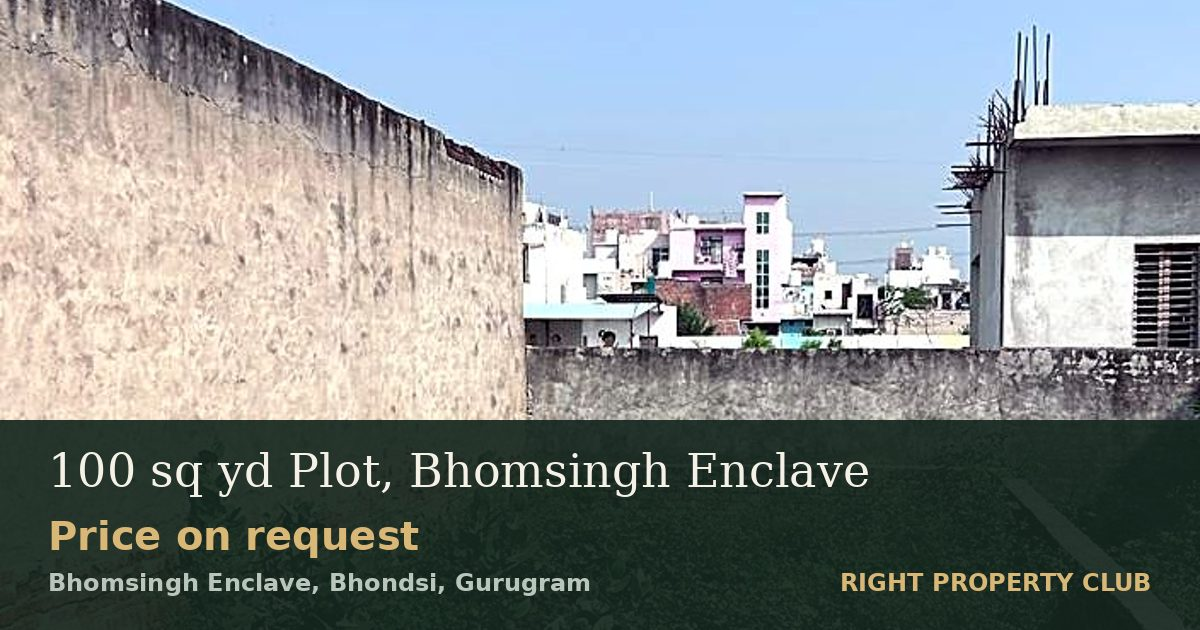
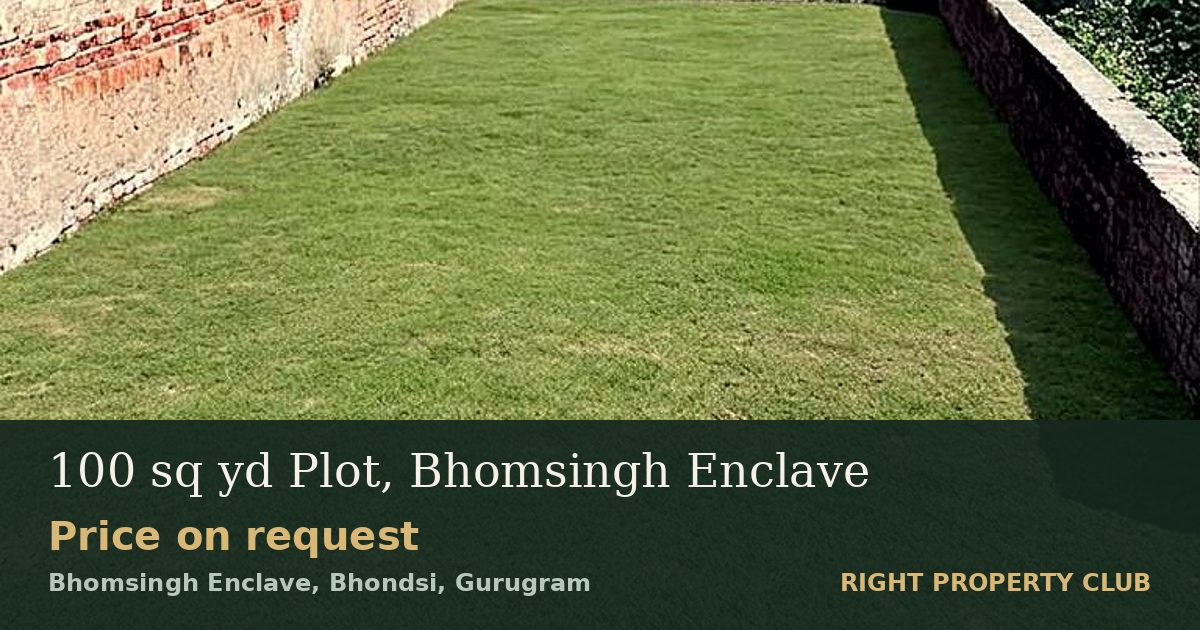
Add files via upload

diff --git a/p/100-sq-yd-plot-bhomsingh-enclave-bhondsi/index.html b/p/100-sq-yd-plot-bhomsingh-enclave-bhondsi/index.html
@@ -1,6 +1,6 @@
 <!doctype html><html lang="en-IN"><head><meta charset="utf-8"><meta name="viewport" content="width=device-width,initial-scale=1,viewport-fit=cover">
 <title>100 sq yd Plot for Sale in Bhomsingh Enclave, Bhondsi | Price on request | Right Property Club</title>
-<meta name="description" content="Price on request · Bhomsingh Enclave, Bhondsi, Gurugram. A compact 50 × 18 ft plot in a settled residential pocket of Bhondsi, Gurugram, with registry available.">
+<meta name="description" content="Price on request · Bhomsingh Enclave, Bhondsi, Gurugram. ">
 <meta property="og:type" content="website"><meta property="og:site_name" content="Right Property Club">
 <meta property="og:title" content="100 sq yd Plot, Bhomsingh Enclave – Price on request"><meta property="og:description" content="Bhomsingh Enclave, Bhondsi, Gurugram. View all photos and details.">
 <meta property="og:url" content="https://rightpropertyclub.com/p/100-sq-yd-plot-bhomsingh-enclave-bhondsi/"><meta property="og:image" content="https://rightpropertyclub.com/p/100-sq-yd-plot-bhomsingh-enclave-bhondsi/og.jpg"><meta property="og:image:width" content="1200"><meta property="og:image:height" content="630">
@@ -23,7 +23,7 @@ main{max-width:760px;margin:0 auto;padding:0 max(16px,env(safe-area-inset-right)
 .track{display:flex;overflow-x:auto;scroll-snap-type:x mandatory;scrollbar-width:none}
 .track::-webkit-scrollbar{display:none}
 .track img{flex:0 0 100%;width:100%;height:auto;aspect-ratio:4/3;object-fit:cover;scroll-snap-align:center;background:var(--gold-soft)}
-.gal.portrait .track img{aspect-ratio:4/5;max-height:72vh;object-fit:cover}
+.gal.portrait .track img{aspect-ratio:4/5;object-fit:cover}
 .gal.portrait + .head{margin-top:12px}.gal.portrait .count{left:auto;right:14px;bottom:14px}
 .count{position:absolute;left:14px;bottom:30px;background:rgba(0,0,0,.55);color:#fff;font-size:12px;padding:3px 9px;border-radius:999px}
 @media (min-width:760px){.gal{margin:16px 0 0}.track{border-radius:12px}}
@@ -59,6 +59,9 @@ h2{font-size:12px;letter-spacing:.09em;text-transform:uppercase;color:var(--mute
 .card .b{padding:14px;display:grid;gap:6px}
 .card h3{font-family:var(--f-display);font-weight:400;font-size:21px;margin:0}
 .hero{padding:26px 0 6px;display:grid;gap:8px}.hero p{color:var(--muted);max-width:60ch;margin:0}
+.checked{display:inline-flex;align-items:center;gap:8px;margin-top:14px;background:#1E3A2E;color:#F5F1E7;border:1px solid #D8B777;border-radius:999px;padding:7px 14px;font-weight:600;font-size:14px}.checked span{color:#D8B777}
+.concept{margin:12px 0 0;background:var(--surface);border:1px solid var(--line);border-radius:10px;overflow:hidden}.concept img{width:100%;height:auto;max-height:80vh;object-fit:cover}.concept figcaption{padding:10px 12px;font-size:13px;color:var(--muted)}.concept b{display:block;color:var(--ink);font-size:15px;margin-bottom:2px}
+@media (min-width:760px){.gal.portrait{max-width:520px;margin-left:auto;margin-right:auto}.concept{max-width:520px}}
 .plotfig{margin:0;background:var(--surface);border:1px solid var(--line);border-radius:10px;padding:10px}.plotfig svg{width:100%;height:auto;display:block}.plotfig figcaption{font-size:12px;color:var(--muted);padding:4px 6px 0}
 .vid{width:100%;max-height:70vh;border-radius:10px;background:#000}
 .why{margin-top:8px}.why h3{font-size:16px;margin:18px 0 8px}
@@ -70,32 +73,33 @@ h2{font-size:12px;letter-spacing:.09em;text-transform:uppercase;color:var(--mute
 </style></head><body>
 <header class="top"><div class="in"><a class="logo" href="/">RIGHT PROPERTY <span>CLUB</span></a><small>Find the Right Property. The Right Way.</small></div></header>
 <main>
-<div class="gal portrait"><div class="track"><img src="1.jpg" alt="100 sq yd Plot, Bhomsingh Enclave photo 1"  width="1600" height="1200"><img src="2.jpg" alt="100 sq yd Plot, Bhomsingh Enclave photo 2" loading=lazy width="1600" height="1200"><img src="3.jpg" alt="100 sq yd Plot, Bhomsingh Enclave photo 3" loading=lazy width="1600" height="1200"><img src="4.jpg" alt="100 sq yd Plot, Bhomsingh Enclave photo 4" loading=lazy width="1600" height="1200"></div><span class="count">4 photos</span></div>
+<div class="checked"><span>✓</span> Checked by Right Property Club</div>
+<div class="gal portrait"><div class="track"><img src="1.jpg?v=4e5d3ad8" alt="100 sq yd Plot, Bhomsingh Enclave photo 1"  width="1600" height="1200"><img src="2.jpg?v=60617b70" alt="100 sq yd Plot, Bhomsingh Enclave photo 2" loading=lazy width="1600" height="1200"></div><span class="count">2 photos · swipe</span></div>
+<p class="fine" style="text-align:center">Cover and home design are representative images. The plot photo has been digitally tidied for presentation.</p>
 <section class="head"><div class="eyebrow">📍 Near Sohna toll · Bhomsingh Enclave, Bhondsi, Gurugram</div>
 <h1>100 sq yd Plot for Sale in Bhomsingh Enclave, Bhondsi</h1>
-<div class="chips"><span class="chip">For Sale</span><span class="chip">Residential plot</span><span class="chip ok">Verified 9 Nov 2026</span><span class="chip">RPC-PL-001</span></div>
+<div class="chips"><span class="chip">For Sale</span><span class="chip">Residential plot</span><span class="chip ok">✓ Verified</span><span class="chip">RPC-PL-001</span></div>
 <div class="price">Price on request</div>
 
 <div class="links" style="margin-top:4px"><a class="btn gold" href="https://wa.me/919310884844?text=Hi%20Right%20Property%20Club%2C%20I%20am%20interested%20in%20100%20sq%20yd%20Plot%2C%20Bhomsingh%20Enclave%2C%20Bhomsingh%20Enclave%2C%20Bhondsi%2C%20Gurugram%20%28RPC-PL-001%29.%20Please%20share%20the%20price%20and%20details.%20https%3A//rightpropertyclub.com/p/100-sq-yd-plot-bhomsingh-enclave-bhondsi/" target="_blank" rel="noopener"><svg width="18" height="18" viewBox="0 0 24 24" aria-hidden="true" fill="currentColor"><path d="M12 2a10 10 0 0 0-8.6 15.1L2 22l5-1.3A10 10 0 1 0 12 2Zm0 18.2c-1.5 0-3-.4-4.3-1.2l-.3-.2-3 .8.8-2.9-.2-.3A8.2 8.2 0 1 1 12 20.2Zm4.5-6.1c-.2-.1-1.5-.7-1.7-.8-.2-.1-.4-.1-.6.1l-.8 1c-.1.2-.3.2-.5.1a6.7 6.7 0 0 1-3.3-2.9c-.3-.4.2-.4.7-1.4.1-.2 0-.3 0-.4l-.8-1.8c-.2-.5-.4-.4-.6-.4h-.5c-.2 0-.4.1-.7.3-.2.3-.9.9-.9 2.2s.9 2.5 1 2.7c.1.2 1.8 2.8 4.4 3.9 1.6.7 2.3.8 3.1.6.5-.1 1.5-.6 1.7-1.2.2-.6.2-1.1.1-1.2l-.4-.2Z"/></svg> Get the price on WhatsApp</a></div>
-<p class="lead">A compact 50 × 18 ft plot in a settled residential pocket of Bhondsi, Gurugram, with registry available.</p></section>
-<h2>Plot details</h2><dl class="grid"><div class="cell"><dt>Plot size</dt><dd>100 sq yd (900 sq ft · 83.6 sq m)</dd></div><div class="cell"><dt>Dimensions</dt><dd>50 ft × 18 ft</dd></div><div class="cell"><dt>Shape</dt><dd>Rectangular</dd></div><div class="cell"><dt>Boundary</dt><dd>Walls on the sides</dd></div><div class="cell"><dt>Access</dt><dd>Through a colony lane</dd></div></dl><h2>Legal &amp; documents</h2><dl class="grid wide"><div class="cell"><dt>Registry</dt><dd>Available</dd></div><div class="cell"><dt>RERA</dt><dd>Not applicable for an individual resale plot</dd></div></dl>
+</section>
+<h2>About this property</h2><p class="desc">This 100 sq yd plot sits inside Bhomsingh Enclave in Bhondsi, near the Sohna toll. It measures 50 ft by 18 ft, opens onto a 20 ft wide colony lane and has boundary walls on its sides. The lane already has built homes around it. Registry is available. Message Right Property Club on WhatsApp for the price, documents and a site visit.</p>
+<h2>Plot details</h2><dl class="grid"><div class="cell"><dt>Plot size</dt><dd>100 sq yd (900 sq ft · 83.6 sq m)</dd></div><div class="cell"><dt>Dimensions</dt><dd>50 ft × 18 ft</dd></div><div class="cell"><dt>Shape</dt><dd>Rectangular</dd></div><div class="cell"><dt>Road in front</dt><dd>20 ft wide colony lane</dd></div><div class="cell"><dt>Boundary</dt><dd>Walls on the sides</dd></div><div class="cell"><dt>Registry</dt><dd>Available</dd></div><div class="cell"><dt>RERA</dt><dd>Not applicable for an individual resale plot</dd></div></dl>
+
+
 <h2>Plot layout</h2><figure class="plotfig"><svg viewBox="0 0 360 260" role="img" aria-label="Plot diagram 50 by 18 feet">
 <rect x="60.0" y="40" width="240.0" height="86.39999999999999" fill="var(--gold-soft)" stroke="var(--gold)" stroke-width="2"/>
 <text x="180.0" y="79.19999999999999" text-anchor="middle" font-size="16" font-weight="600" fill="var(--ink)">100 sq yd</text>
 <text x="180.0" y="99.19999999999999" text-anchor="middle" font-size="12" fill="var(--muted)">50 ft × 18 ft</text>
 <line x1="60.0" y1="26" x2="300.0" y2="26" stroke="var(--muted)"/><text x="180.0" y="20" text-anchor="middle" font-size="12" fill="var(--muted)">50 ft</text>
 <line x1="314.0" y1="40" x2="314.0" y2="126.39999999999999" stroke="var(--muted)"/><text x="320.0" y="87.19999999999999" font-size="12" fill="var(--muted)">18 ft</text>
-<rect x="40.0" y="134.39999999999998" width="280.0" height="30" fill="var(--line)"/><text x="180.0" y="154.39999999999998" text-anchor="middle" font-size="12" fill="var(--ink)">Colony lane (indicative)</text>
-</svg><figcaption>Indicative sketch from the stated dimensions. Not to scale for survey purposes. Road side is indicative.</figcaption></figure><h2>Video walkthrough</h2><video class="vid" src="video.mp4" controls playsinline preload="metadata" poster="poster.jpg"></video>
+<rect x="40.0" y="134.39999999999998" width="280.0" height="30" fill="var(--line)"/><text x="180.0" y="154.39999999999998" text-anchor="middle" font-size="12" fill="var(--ink)">20 ft wide colony lane</text>
+</svg><figcaption>Indicative sketch from the stated dimensions. Not to scale for survey purposes.</figcaption></figure><figure class="concept"><img src="concept.jpg?v=efae3ff8" alt="Indicative 3D design of a three-storey home on an 18 ft wide plot" loading="lazy" width="720" height="1280"><figcaption><b>What you could build here</b>Indicative 3D concept of a ground + 2 home with stilt parking on an 18 ft × 50 ft plot. Actual design depends on approved building plans and local bye-laws.</figcaption></figure>
+<h2>Why this property</h2><ul class="ticks"><li>Compact 100 sq yd size keeps the entry budget lower than larger plots in the area</li><li>Simple rectangular 50 × 18 ft shape, easy to plan a home on</li><li>Faces a 20 ft wide colony lane, enough for a car to reach the gate</li><li>Side boundary walls already in place</li><li>Settled pocket with existing homes all around, not an isolated patch</li><li>Registry available, so the sale deed can be registered in the buyer’s name</li></ul><h2>Location advantages</h2><ul class="ticks"><li>Bhondsi lies along the Gurugram–Sohna road belt, south of Gurugram city</li><li>Sector 55–56 Rapid Metro station about 12 km away (approx.)</li><li>Gurugram railway station about 16 km and IGI Airport about 27 km away (approx.)</li><li>Schools, colleges and hospitals within the wider Bhondsi–Sohna Road area</li></ul><h2>Growth drivers nearby</h2><ul class="growth"><li><span class="chip ok">Operational</span> Sohna Elevated Corridor: a 21.65 km route from Rajiv Chowk, Gurugram to Sohna, fully open to traffic since 11 July 2022. <a class="src" href="https://en.wikipedia.org/wiki/Sohna_Elevated_Corridor" target="_blank" rel="noopener">Source</a></li><li><span class="chip warn">Approved</span> A six-lane elevated corridor at the NH-919 and NH-248A intersection further south in Nuh district has been approved to ease the Sohna route. <a class="src" href="https://swarajyamag.com/news-brief/six-lane-elevated-corridor-worth-34078-crore-approved-for-nh-919-and-nh-248a-intersection-in-nuh" target="_blank" rel="noopener">Source</a></li></ul><p class="fine">Infrastructure helps a location but does not guarantee price growth. Right Property Club does not promise returns or appreciation.</p>
 
-
-
-<section class="why"><h2>Why this property</h2><ul class="ticks"><li>Compact 100 sq yd size keeps the entry budget lower than larger plots in the area</li><li>Simple rectangular 50 × 18 ft shape, easy to plan a home on</li><li>Side boundary walls already in place (as seen in photos)</li><li>Settled pocket with existing homes all around, not an isolated patch</li><li>Registry available, so the sale deed can be registered in the buyer’s name</li></ul><h3>Location advantages</h3><ul class="ticks"><li>Bhondsi lies along the Gurugram–Sohna road belt, south of Gurugram city</li><li>Sector 55–56 Rapid Metro station about 12 km away (approx.)</li><li>Gurugram railway station about 16 km and IGI Airport about 27 km away (approx.)</li><li>Schools, colleges and hospitals within the wider Bhondsi–Sohna Road area</li></ul><h3>Growth drivers nearby</h3><ul class="growth"><li><span class="chip ok">Operational</span> Sohna Elevated Corridor: a 21.65 km route from Rajiv Chowk, Gurugram to Sohna, fully open to traffic since 11 July 2022. <a class="src" href="https://en.wikipedia.org/wiki/Sohna_Elevated_Corridor" target="_blank" rel="noopener">Source</a></li><li><span class="chip warn">Approved</span> A six-lane elevated corridor at the NH-919 and NH-248A intersection further south in Nuh district has been approved to ease the Sohna route. <a class="src" href="https://swarajyamag.com/news-brief/six-lane-elevated-corridor-worth-34078-crore-approved-for-nh-919-and-nh-248a-intersection-in-nuh" target="_blank" rel="noopener">Source</a></li></ul><p class="fine">Infrastructure helps a location but does not guarantee price growth. Right Property Club does not promise returns or appreciation.</p><h3>Smart buyer checklist</h3><ol class="check"><li>Check the colony’s approval status and whether a DTCP NOC is needed for registry under Section 7A of the Haryana urban areas Act.</li><li>Check the previous sale deed and land records (jamabandi and mutation) in the seller&#x27;s name.</li><li>Measure the plot on site (50 × 18 ft) and confirm the boundaries with neighbours.</li><li>Confirm the width and ownership of the access lane, and availability of water and electricity connections.</li></ol></section>
-
-<h2>About this property</h2><p class="desc">This 100 sq yd plot sits inside Bhomsingh Enclave in Bhondsi, near the Sohna toll. It measures 50 ft by 18 ft, has boundary walls on its sides, and the lane around it already has built homes. Registry is available. Message Right Property Club on WhatsApp for the price, documents and a site visit.</p>
-<div class="links"><a class="btn" href="https://www.google.com/maps/@28.350,77.070,15z" target="_blank" rel="noopener">View area on Google Maps</a></div>
+<h2>Video walkthrough</h2><video class="vid" src="video.mp4?v=9ec193b2" controls playsinline preload="metadata" poster="poster.jpg?v=cc67f9ba"></video>
+<h2>Location map</h2><div class="links"><a class="btn" href="https://www.google.com/maps/@28.350,77.070,15z" target="_blank" rel="noopener">View area on Google Maps</a></div>
 <p class="fine">Map shows the general area only. The exact location is shared on request or during a site visit.</p>
-<div class="verify"><span>✓</span><div><b>Checked by Right Property Club on 9 Nov 2026</b>We confirmed availability, asking price and our authorisation to market this property on this date.</div></div>
 <div class="fine"><p>Details are shared by the property owner or developer and can change. Please verify documents, approvals and price independently before you decide. Images may be indicative.</p><p>Call or WhatsApp: +91 93108 84844</p><p>Listing ID RPC-PL-001</p></div>
 </main>
 <div class="bar"><div class="in"><a class="btn pri" href="https://wa.me/919310884844?text=Hi%20Right%20Property%20Club%2C%20I%20am%20interested%20in%20100%20sq%20yd%20Plot%2C%20Bhomsingh%20Enclave%2C%20Bhomsingh%20Enclave%2C%20Bhondsi%2C%20Gurugram%20%28RPC-PL-001%29.%20Please%20share%20the%20price%20and%20details.%20https%3A//rightpropertyclub.com/p/100-sq-yd-plot-bhomsingh-enclave-bhondsi/" target="_blank" rel="noopener"><svg width="18" height="18" viewBox="0 0 24 24" aria-hidden="true" fill="currentColor"><path d="M12 2a10 10 0 0 0-8.6 15.1L2 22l5-1.3A10 10 0 1 0 12 2Zm0 18.2c-1.5 0-3-.4-4.3-1.2l-.3-.2-3 .8.8-2.9-.2-.3A8.2 8.2 0 1 1 12 20.2Zm4.5-6.1c-.2-.1-1.5-.7-1.7-.8-.2-.1-.4-.1-.6.1l-.8 1c-.1.2-.3.2-.5.1a6.7 6.7 0 0 1-3.3-2.9c-.3-.4.2-.4.7-1.4.1-.2 0-.3 0-.4l-.8-1.8c-.2-.5-.4-.4-.6-.4h-.5c-.2 0-.4.1-.7.3-.2.3-.9.9-.9 2.2s.9 2.5 1 2.7c.1.2 1.8 2.8 4.4 3.9 1.6.7 2.3.8 3.1.6.5-.1 1.5-.6 1.7-1.2.2-.6.2-1.1.1-1.2l-.4-.2Z"/></svg> Enquire on WhatsApp</a><a class="btn" href="https://wa.me/?text=100%20sq%20yd%20Plot%2C%20Bhomsingh%20Enclave%20in%20Bhomsingh%20Enclave%2C%20Bhondsi%2C%20Gurugram%20%E2%80%93%20Price%20on%20request.%0AView%20all%20photos%20%26%20details%3A%20https%3A//rightpropertyclub.com/p/100-sq-yd-plot-bhomsingh-enclave-bhondsi/" target="_blank" rel="noopener">Share</a></div></div>
